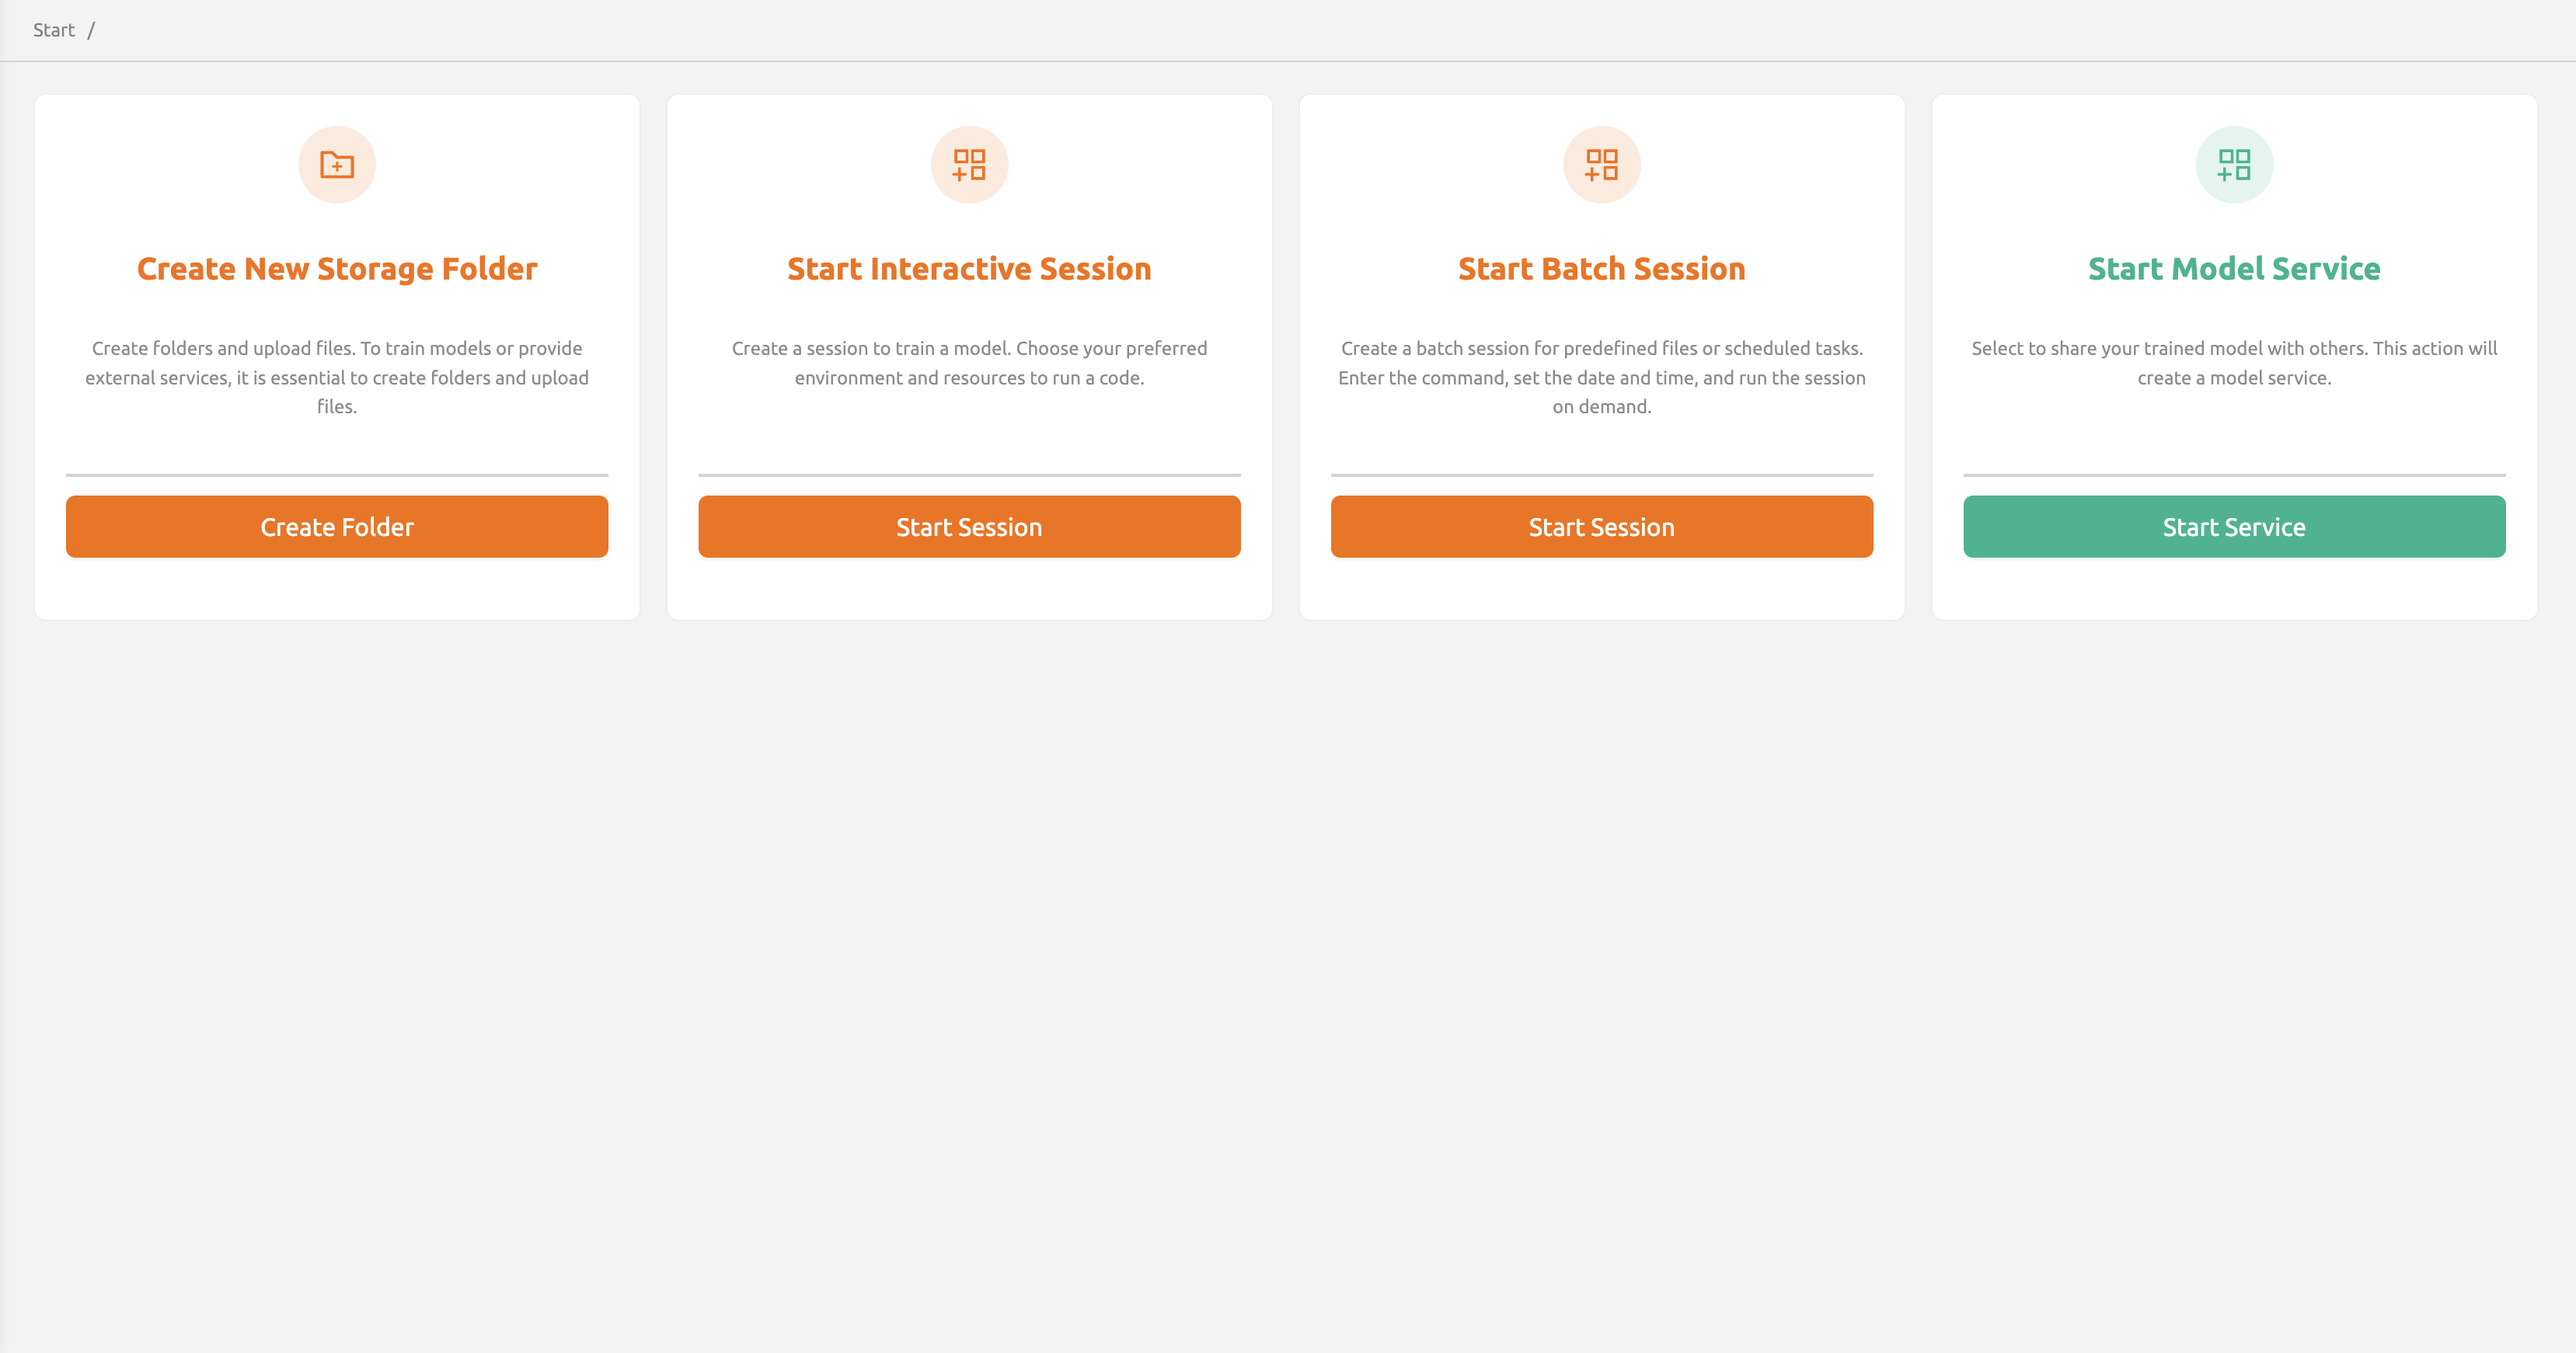
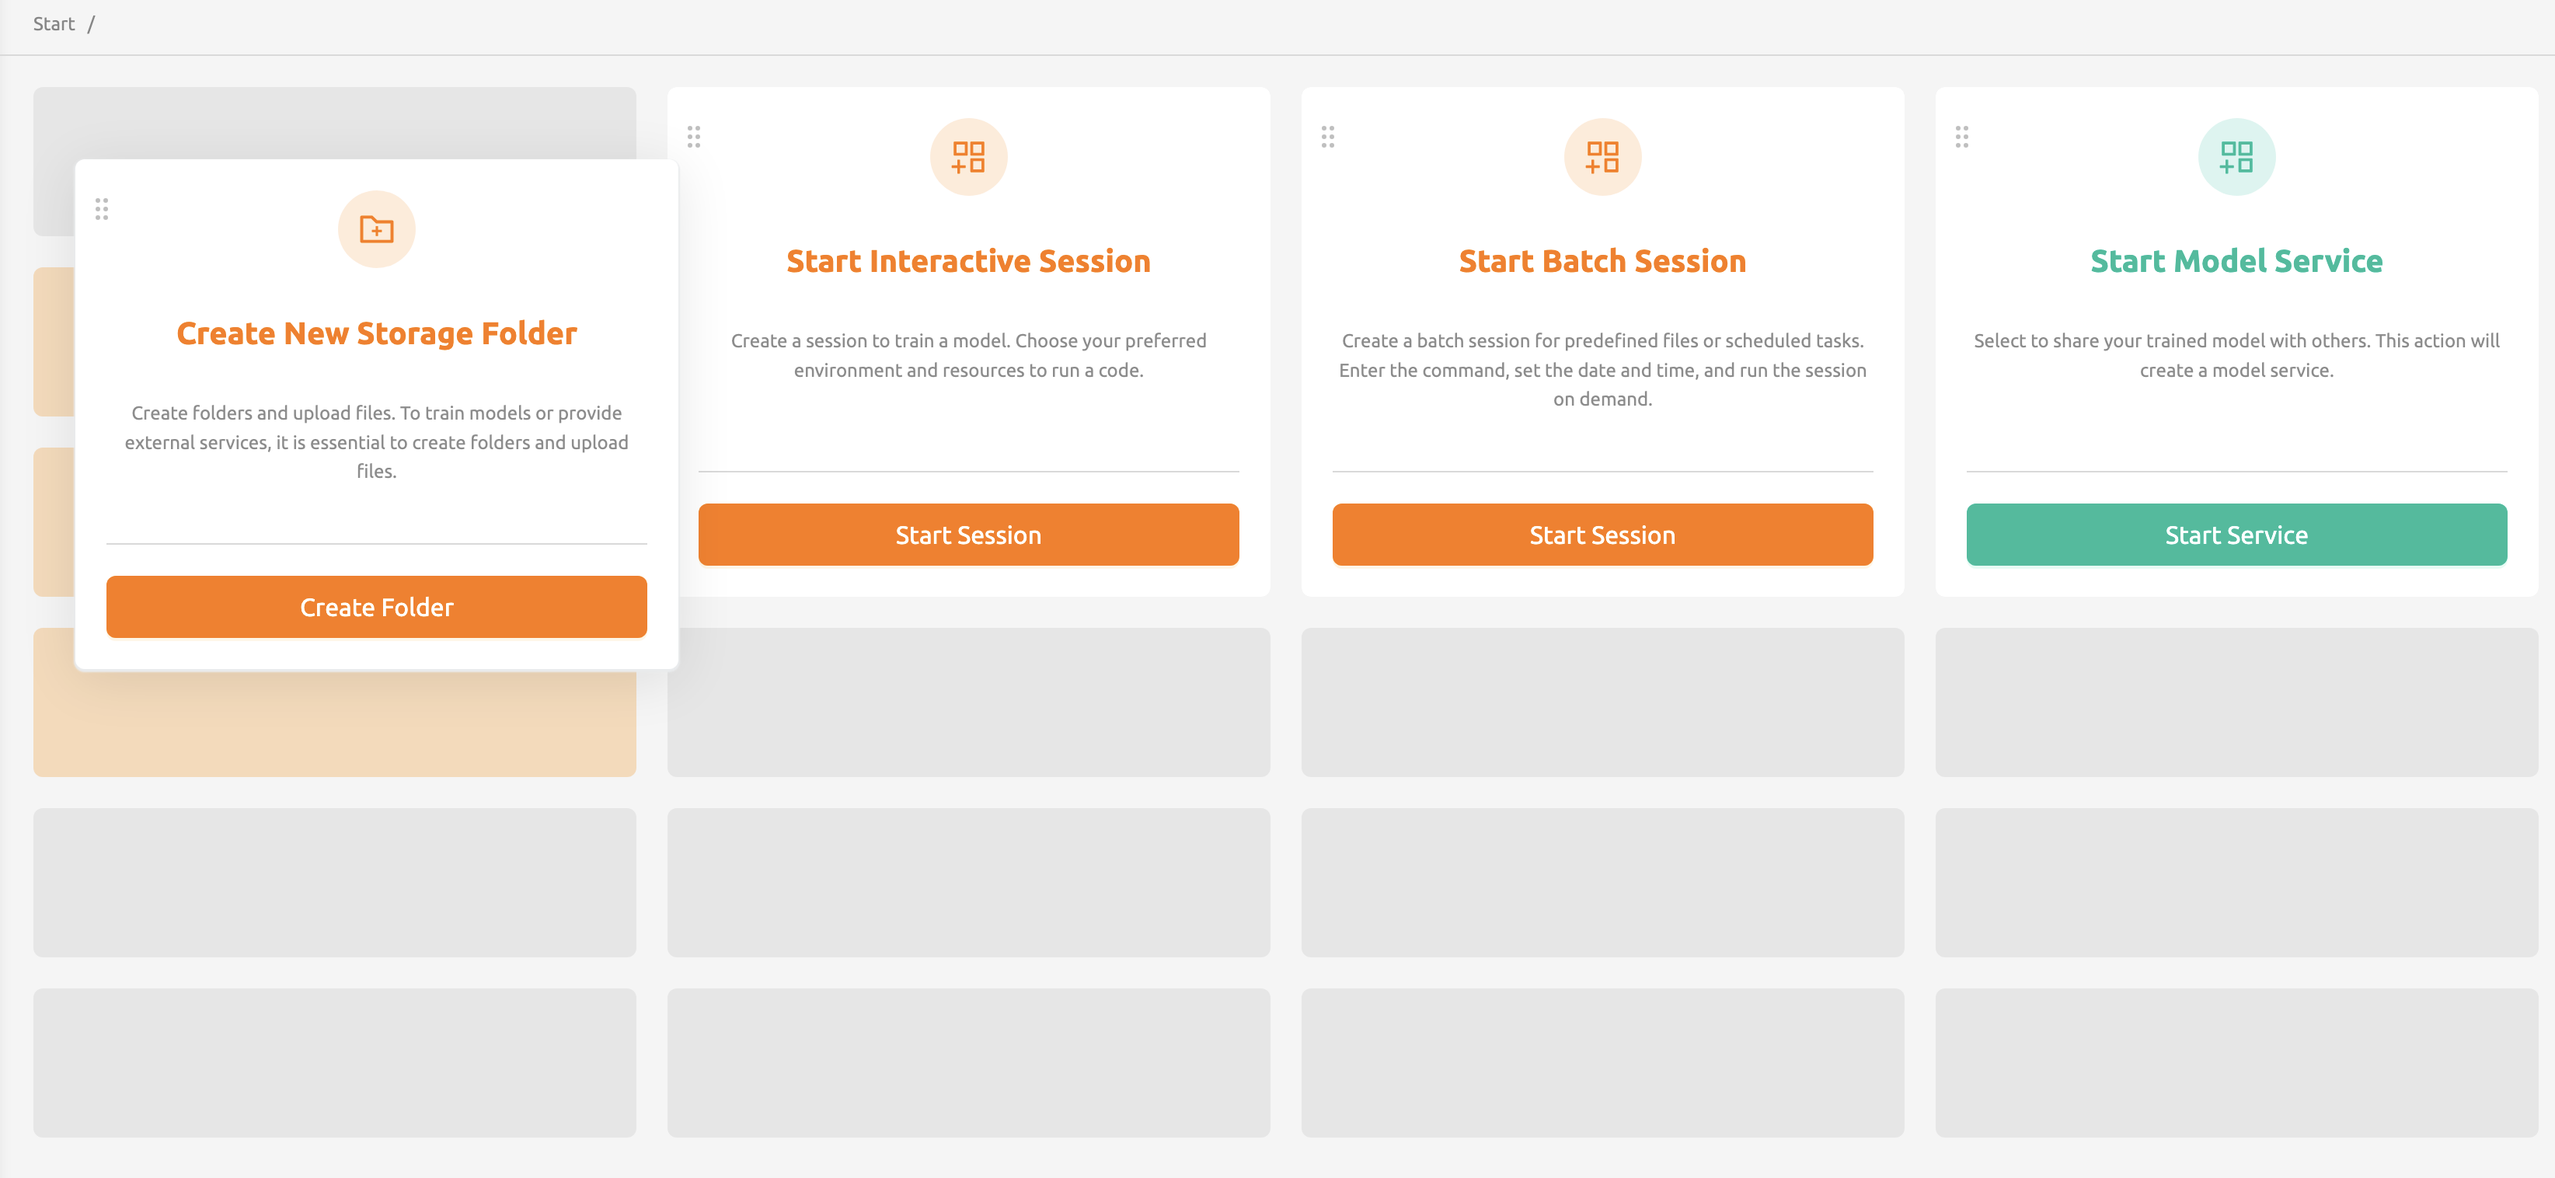
docs(FR-1586): update start page for 25.15 (#133)
Resolves #128 ([FR-1586](https://lablup.atlassian.net/browse/FR-1586))
[Start Page — Backend.AI WebUI User Guide 25.15 documentation.pdf](https://github.com/user-attachments/files/23093944/Start.Page.Backend.AI.WebUI.User.Guide.25.15.documentation.pdf)
[시작 페이지 — Backend.AI WebUI User Guide 25.15 문서.pdf](https://github.com/user-attachments/files/23093946/Backend.AI.WebUI.User.Guide.25.15.pdf)

### TL;DR

Added information about card position adjustment functionality on the Start page.

### What changed?

- Updated the Start page documentation to mention that card positions can be adjusted using the button at the top-left corner of each card
- Updated the Korean translation to include this new information
- Replaced the Start page screenshot with an updated version showing the position adjustment button
- Updated the POT-Creation-Date from April to October 2025

### How to test?

1. Navigate to the Start page in the WebUI
2. Verify that each card has a button in the top-left corner
3. Try using this button to adjust the position of the cards
4. Check that both English and Korean documentation accurately describe this functionality

### Why make this change?

This change improves user experience by documenting the card position adjustment feature, allowing users to customize their Start page layout according to their preferences and workflow needs.
[…]

Changed region(s): [[0.0, 0.062, 0.9927, 0.6821], [0.0, 0.0, 0.031, 0.031]]

diff --git a/docs/start/start.rst b/docs/start/start.rst
@@ -4,7 +4,7 @@ Start Page
 
 On the Start page, users can quickly access frequently used WebUI features. 
 Currently, shortcuts are available for :ref:`creating storage folders <create_storage_folder>`, :ref:`launching interactive or batch session <create_session>`, 
-and :ref:`creating model service <model-serving>`.
+and :ref:`creating model service <model-serving>`. The position can be adjusted using the button at the top-left corner of each card.
 
 .. image:: start_page.png
     :align: center
